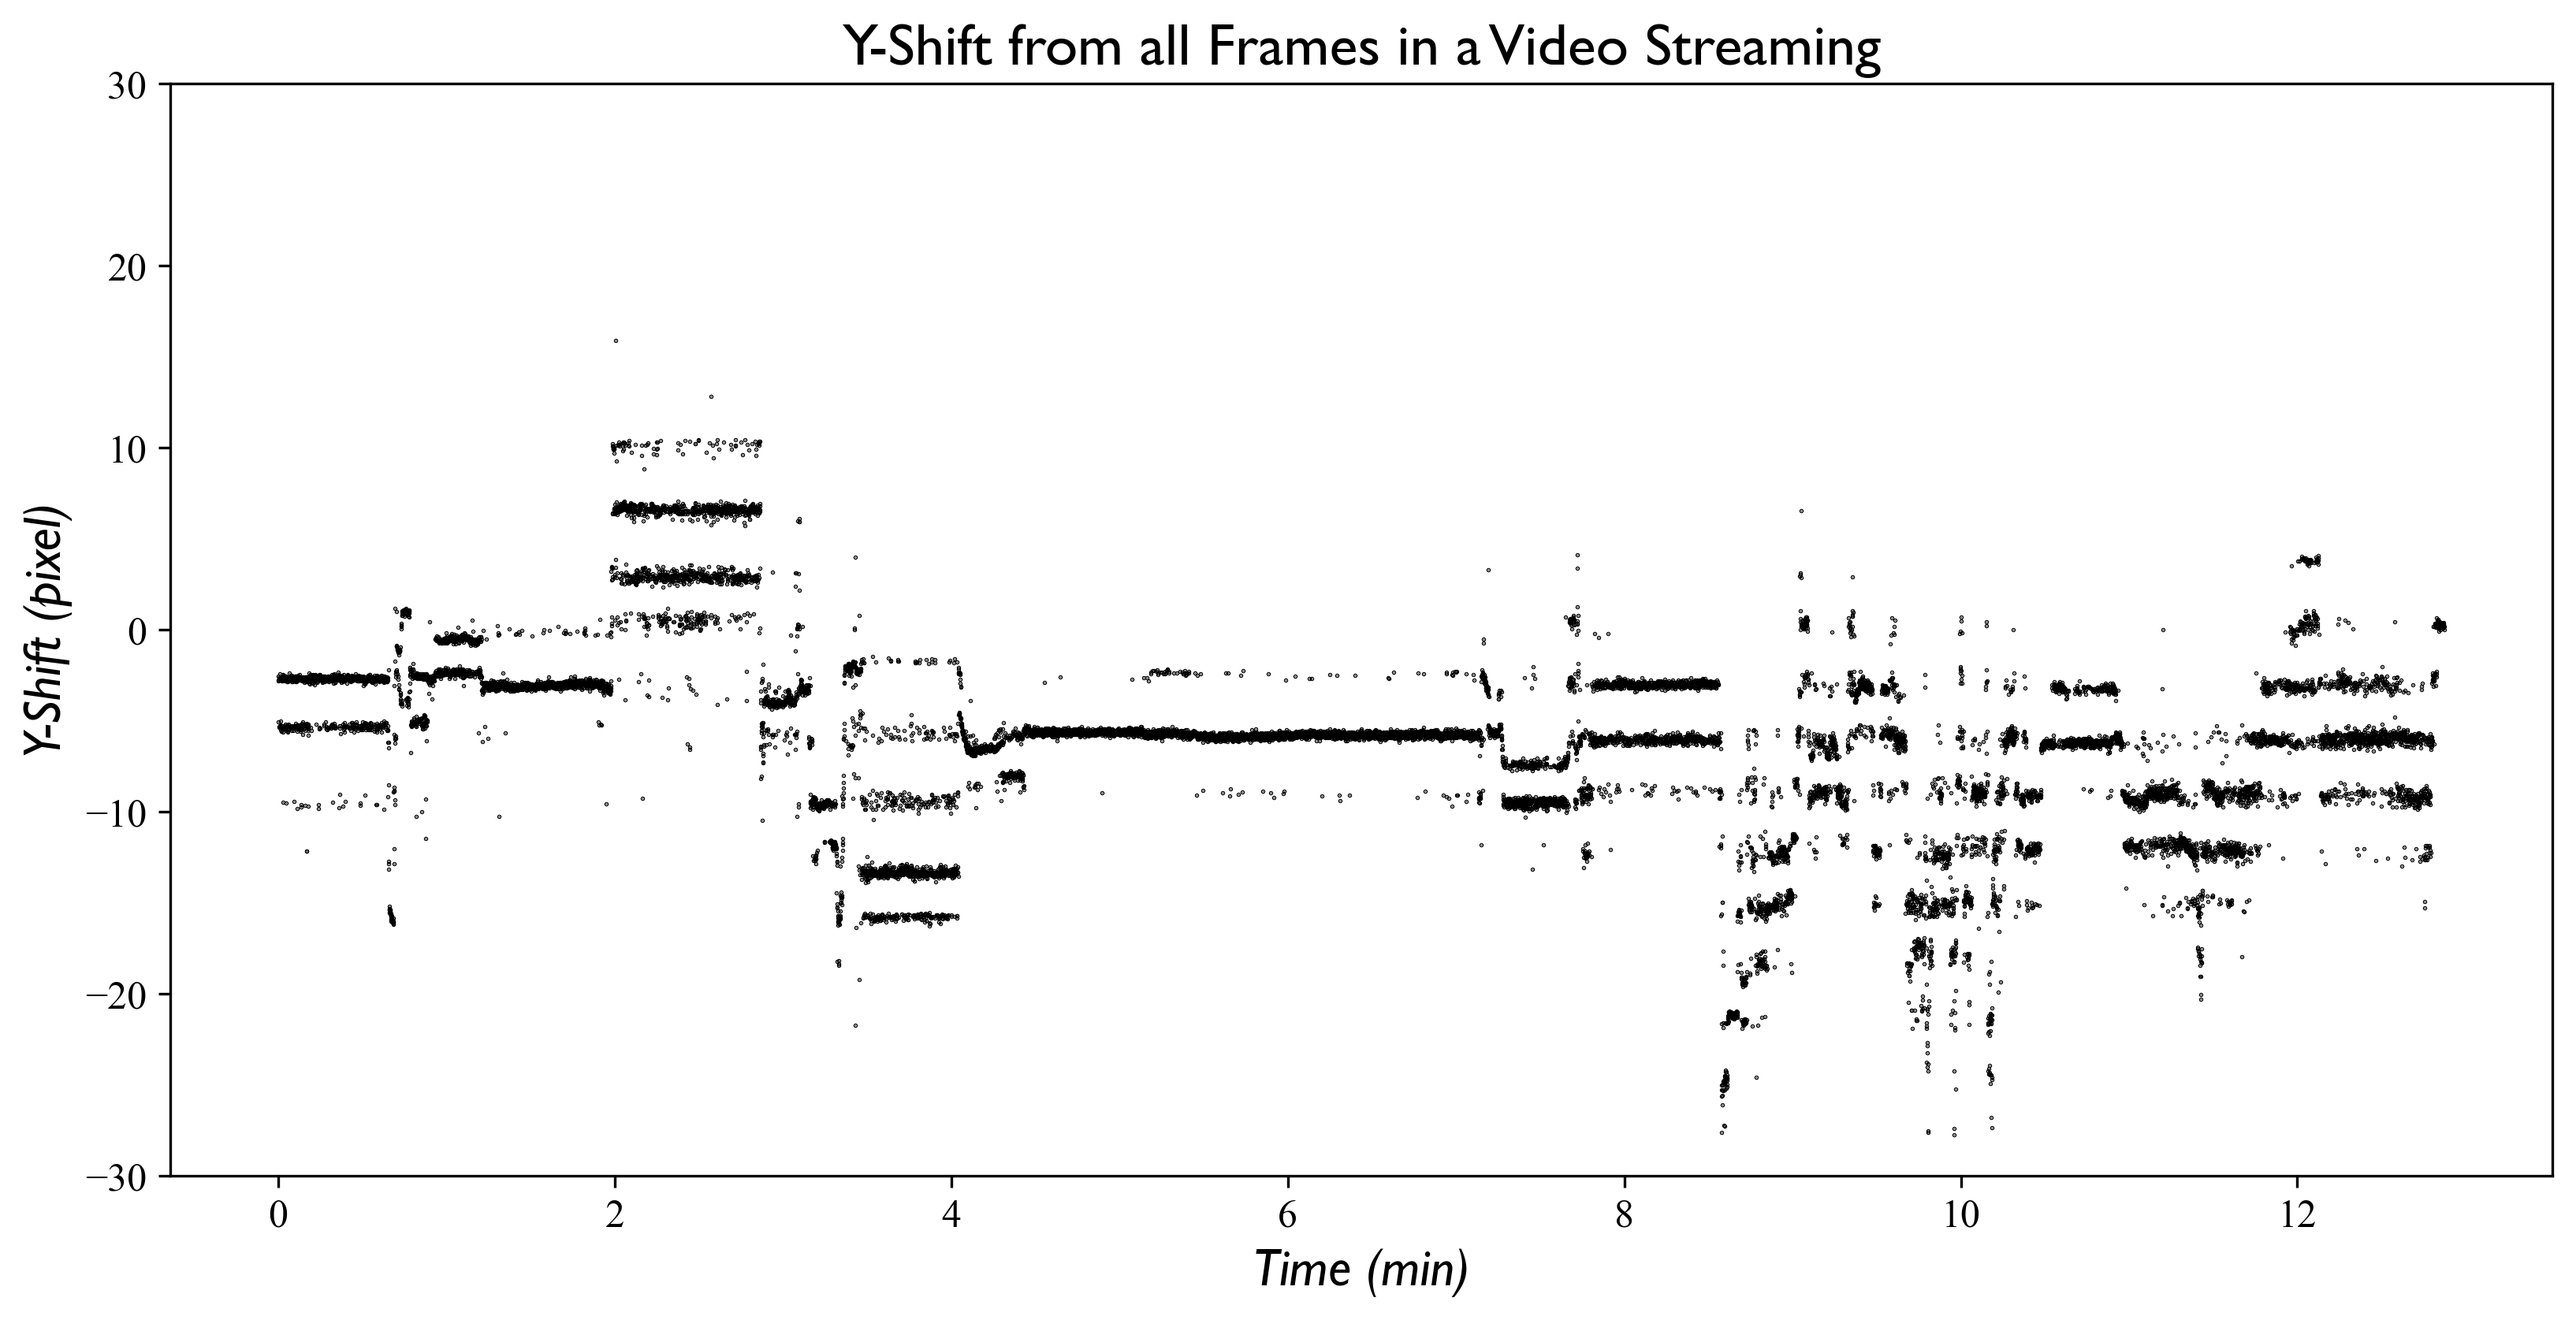
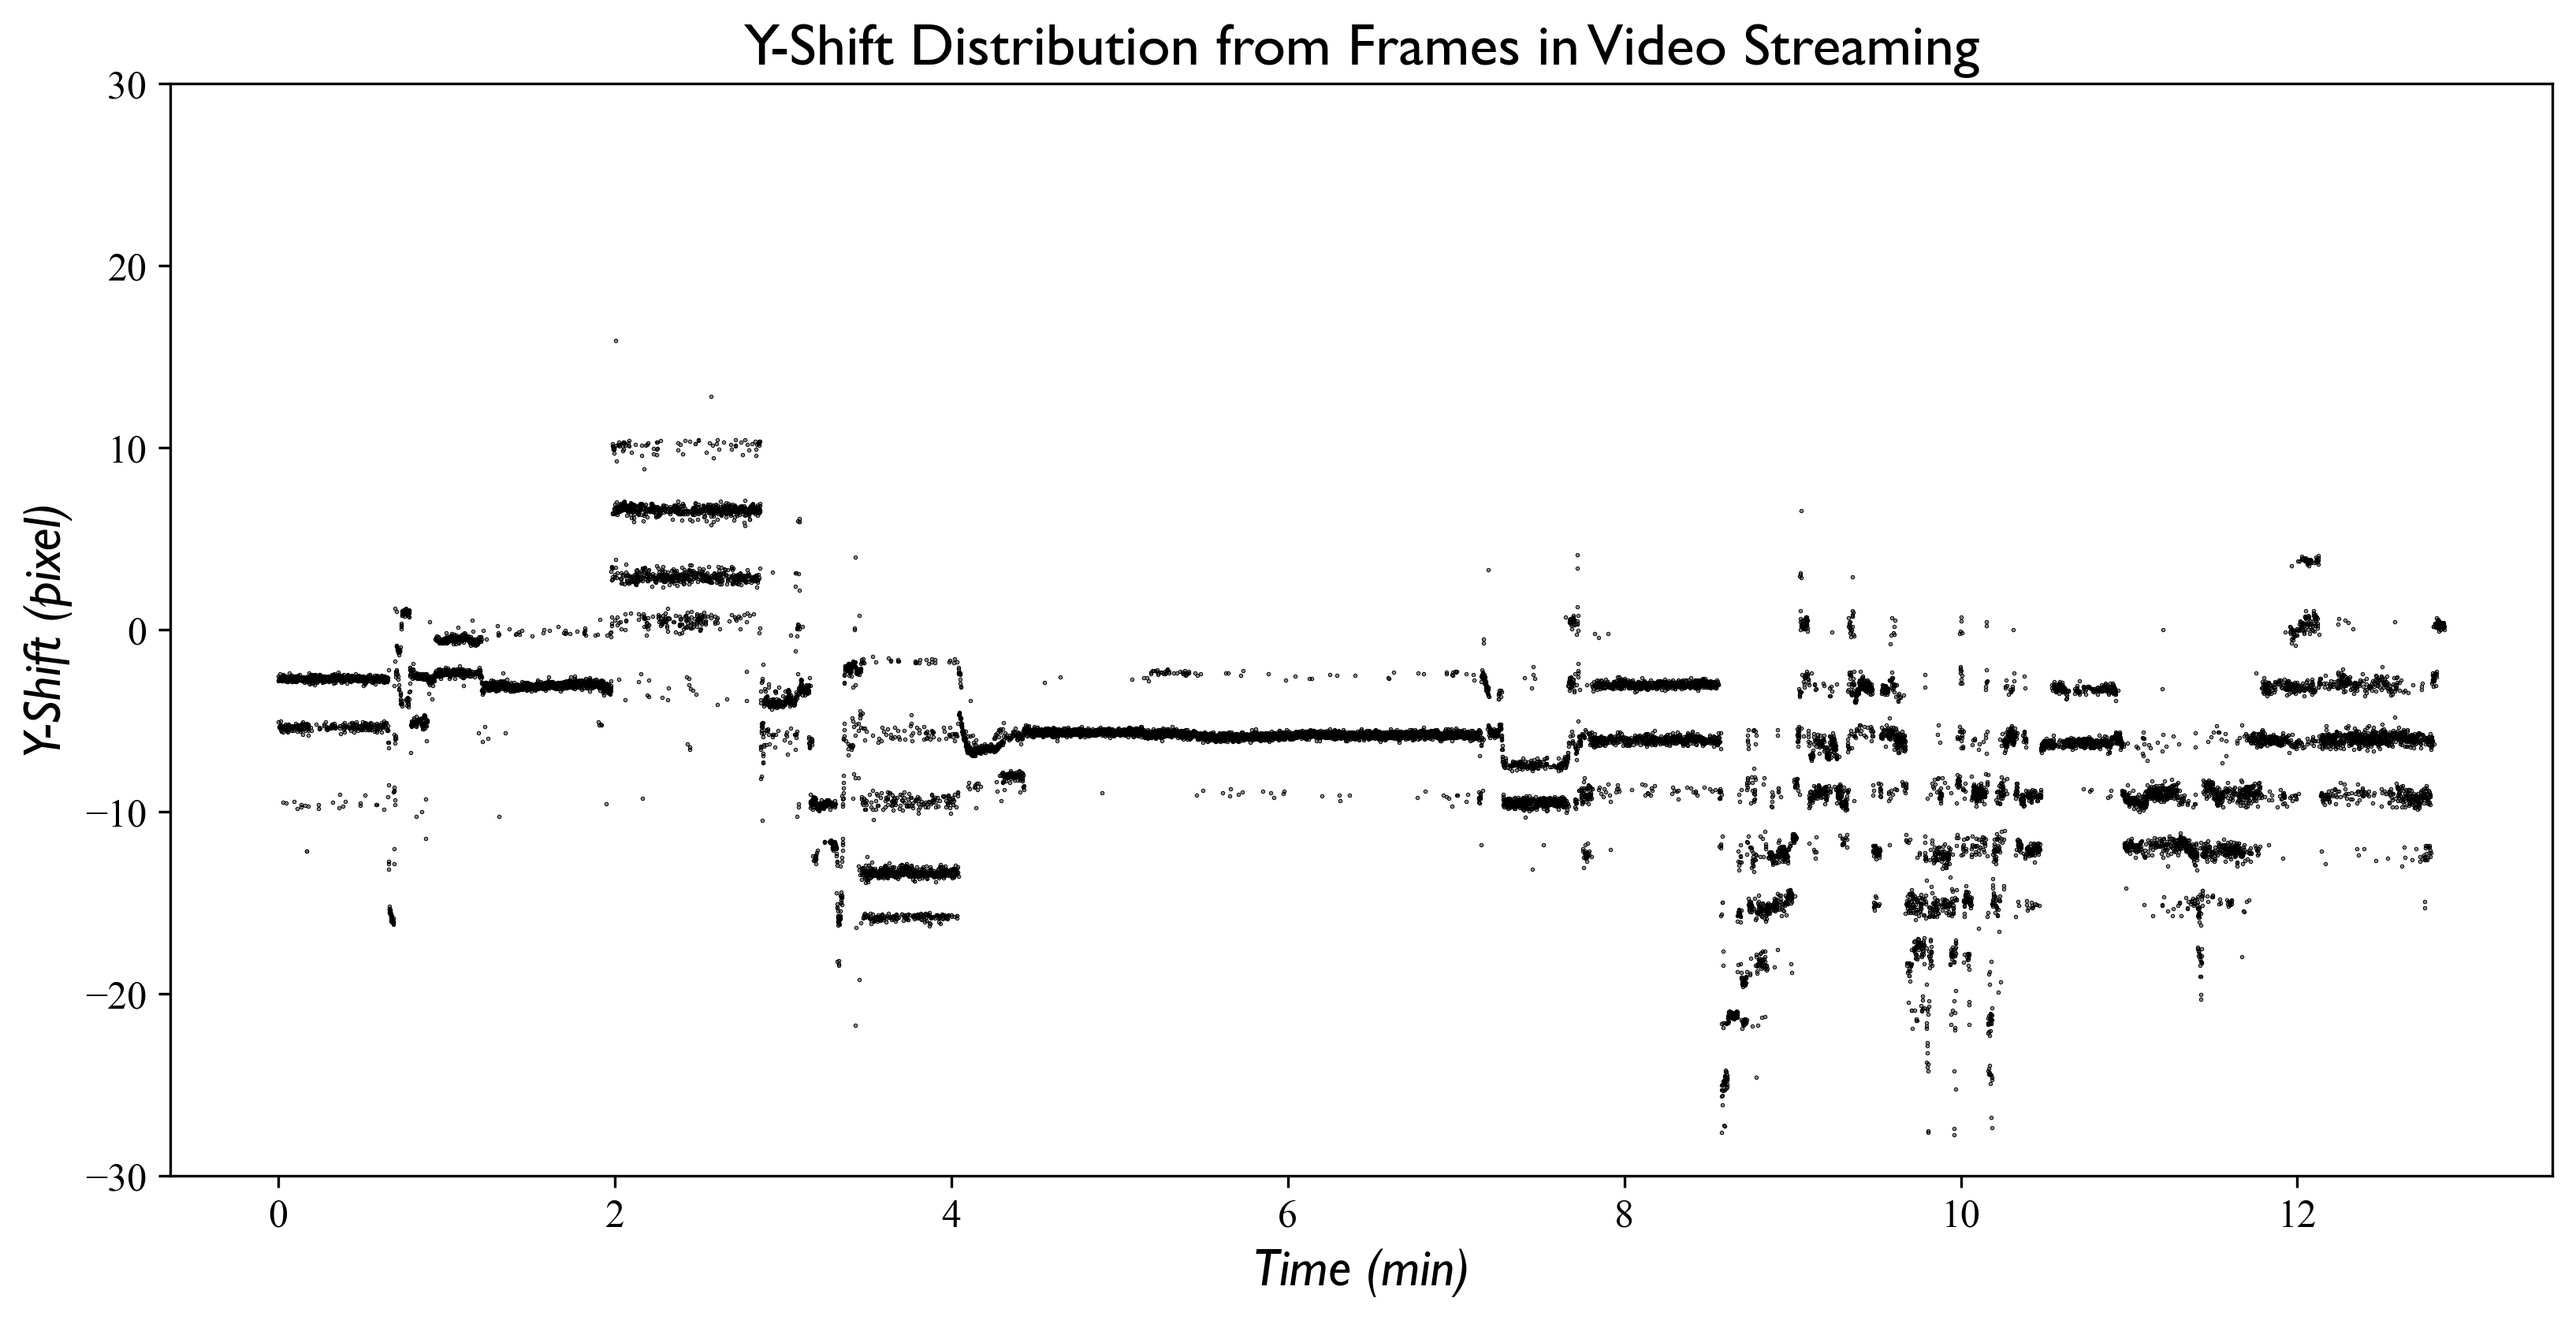
modi Product

Changed region(s): [[0.2809, 0.0, 0.7803, 0.0621]]

diff --git a/python/script_y_shift.py b/python/script_y_shift.py
@@ -33,7 +33,7 @@ plt.plot(np.array(range(len(list_y_shift)))/1500,
 plt.ylabel('Y-Shift (pixel)',fontdict=label_prop)
 plt.xlabel('Time (min)',fontdict=label_prop)
 
-plt.title('Y-Shift from all Frames in a Video Streaming',fontdict=title_prop)
+plt.title('Y-Shift Distribution from Frames in Video Streaming',fontdict=title_prop)
 
 #set ticks fonts
 plt.tick_params(labelsize=12)

diff --git a/python/script_slope.py b/python/script_slope.py
@@ -77,7 +77,6 @@ plt.ylim([-slope_threshold,slope_threshold])
 # plt.ylabel('y-shift (pixel)',fontdict=label_prop)
 # plt.xlabel('frame (-)',fontdict=label_prop)
 
-
 #set ticks fonts
 plt.tick_params(labelsize=12)
 labels=plt.gca().get_xticklabels()+plt.gca().get_yticklabels()
